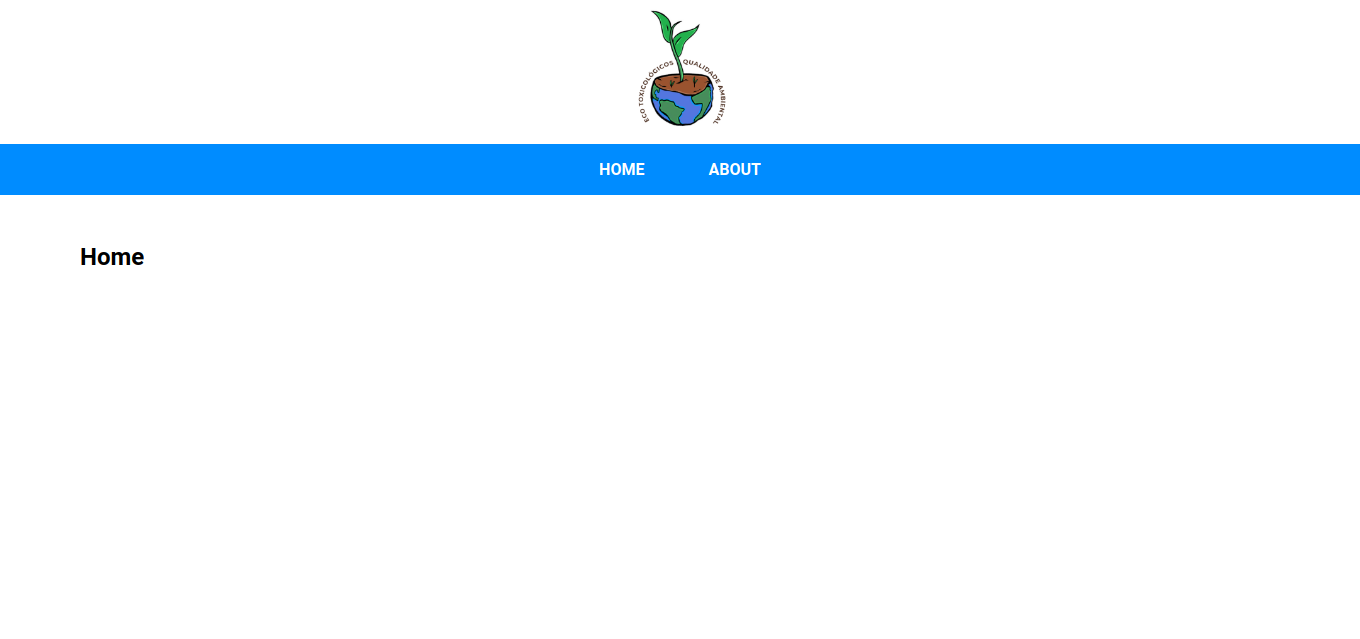
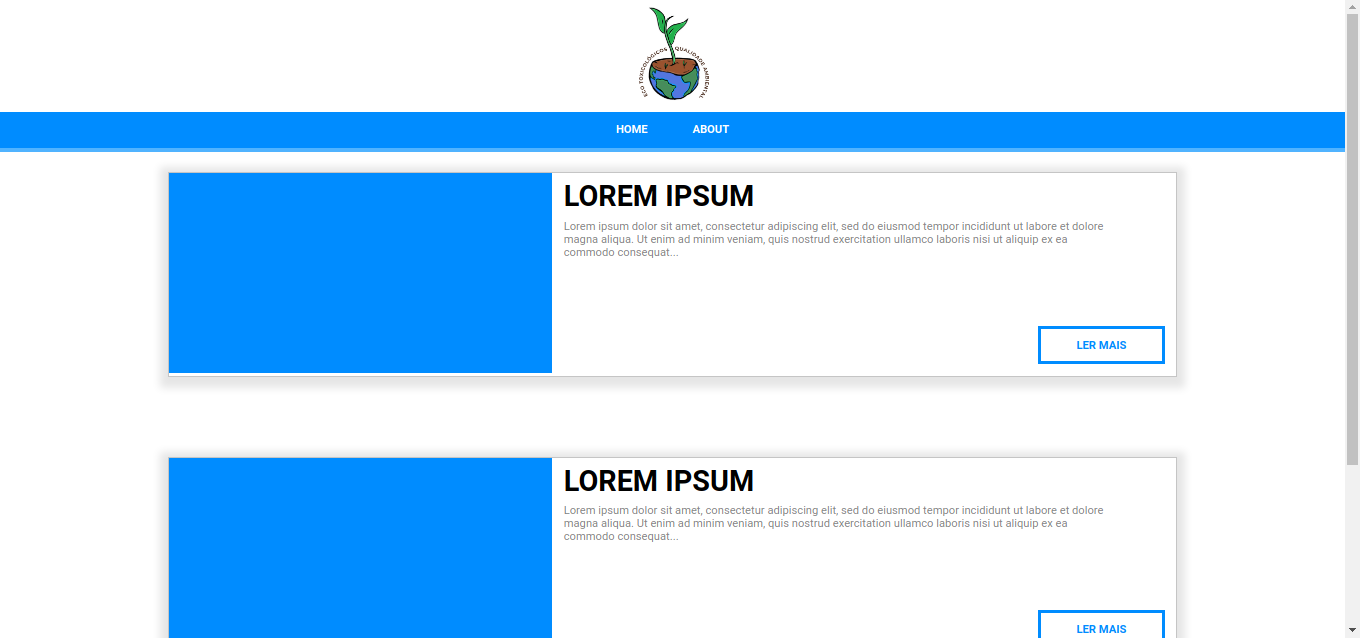
ContentCard Concluded

diff --git a/src/views/Home.vue b/src/views/Home.vue
@@ -1,20 +1,29 @@
 <template>
-  <section>
-   <h1>Home</h1>
-   <ContentCard
-    title="Materia"
-    text="Text Materia"
-    route="/materia"
-    link="/about"
-    image="../assets/Logo.png"
-  >
-  </ContentCard>
-  </section>
+  <main>
+    <ContentCard
+      title="Lorem ipsum"
+      text="Lorem ipsum dolor sit amet, consectetur adipiscing elit,
+      sed do eiusmod tempor incididunt ut labore et dolore magna aliqua.
+      Ut enim ad minim veniam, quis nostrud exercitation ullamco laboris
+      nisi ut aliquip ex ea commodo consequat..."
+      link="/about"
+      img="Rectangle.png"
+    />
+    <ContentCard
+      title="Lorem ipsum"
+      text="Lorem ipsum dolor sit amet, consectetur adipiscing elit,
+      sed do eiusmod tempor incididunt ut labore et dolore magna aliqua.
+      Ut enim ad minim veniam, quis nostrud exercitation ullamco laboris
+      nisi ut aliquip ex ea commodo consequat..."
+      link="/about"
+      img="Rectangle.png"
+    />
+  </main>
 </template>
 
 <script>
 // @ is an alias to /src
-import ContentCard from '@/components/ContentCard.vue';
+import ContentCard from '@/components/ContentCard/index.vue';
 
 export default {
   name: 'Home',
@@ -25,9 +34,12 @@ export default {
 </script>
 
 <style lang="scss" scoped>
-  section {
+  @import 'src/vars.scss';
+  main {
     display: flex;
     flex-direction: column;
-    margin: 3em 5em;
+    align-items: center;
+    gap: 10rem;
+    margin: 10em auto;
   }
 </style>

diff --git a/src/components/ContentCard/CardContent.vue b/src/components/ContentCard/CardContent.vue
@@ -1,0 +1,73 @@
+<template>
+  <div class="content">
+    <h2>{{ title }}</h2>
+    <p>{{ text }}</p>
+    <div class="link">
+      <router-link :to="link">Ler Mais</router-link>
+    </div>
+  </div>
+</template>
+
+<script>
+export default {
+  name: 'CardContent',
+  props: {
+    title: {
+      required: true,
+      type: String,
+    },
+    text: {
+      required: true,
+      type: String,
+    },
+    link: {
+      required: true,
+      type: String,
+    },
+  },
+};
+</script>
+
+<style lang="scss" scoped>
+  @import 'src/vars.scss';
+  .content {
+    display: flex;
+    flex-direction: column;
+    h2 {
+      text-transform: uppercase;
+      font-size: $h2;
+      margin-top: 0.8rem;
+      margin-bottom: 0.8rem;
+    }
+    p {
+      font-size: $p;
+      color: $gray;
+      width: 90%;
+    }
+    .link {
+      display: flex;
+      align-items: flex-end;
+      justify-content: flex-end;
+
+      a {
+        transition: .5s ease;
+        border: 0.4rem solid $blue;
+
+        margin: 6em 1em 1em 1em;
+        padding: 12px 44px;
+
+        text-decoration: none;
+        text-transform: uppercase;
+        color: $blue;
+        font-size: $p;
+        font-weight: bold;
+        text-align: center;
+
+        &:hover {
+          background-color: $blue;
+          color: white;
+        }
+      }
+    }
+  }
+</style>

diff --git a/src/components/ContentCard/index.vue b/src/components/ContentCard/index.vue
@@ -1,0 +1,58 @@
+<template>
+  <section class="contentCard">
+      <div class="image">
+        <img :src="require(`@/assets/${img}`)" :alt="title">
+      </div>
+      <CardContent class="content"
+        :title="title"
+        :text="text"
+        :link="link"
+      >
+      </CardContent>
+  </section>
+</template>
+
+<script>
+import CardContent from './CardContent.vue';
+
+export default {
+  name: 'ContentCard',
+  props: {
+    title: String,
+    text: String,
+    link: String,
+    img: String,
+  },
+  components: {
+    CardContent,
+  },
+};
+</script>
+
+<style lang="scss" scoped>
+  .contentCard {
+  width: 75%;
+  display: flex;
+  gap: 10em;
+
+  border: 1px solid rgba(159, 159, 159, 0.6);
+  box-shadow: 0px 4px 10px 10px rgba(0, 0, 0, 0.1);
+
+  .img {
+    max-width: 478px;
+  }
+
+  @media screen and (max-width: 1024px) {
+    flex-direction: column;
+
+    img {
+      max-width: 100%;
+      max-height: 250px;
+    }
+
+    .content {
+      margin-left: 10em;
+    }
+  }
+}
+</style>

diff --git a/src/components/Footer.vue b/src/components/Footer.vue
@@ -14,20 +14,23 @@ export default {
 </script>
 
 <style lang="scss" scoped>
-  /* TODO: Finalize Styles */
-  $dark-blue: #0068BE;
-  $blue: #008CFF;
-  $ligth-blue: #50B3FF;
+  @import 'src/vars.scss';
+
   section {
     display: flex;
     justify-content: center;
     align-items: center;
 
-    padding: 6em 0 2em 0;
-    margin-top: 3em;
-
-    border-top: 0.5em solid $ligth-blue;
+    border-top: 4em solid $ligth-blue;
     background-color: $blue;
-    color: white;
+
+    span {
+      margin: 10rem 2rem;
+      font-size: $p;
+      color: white;
+      strong {
+        font-size: $p;
+      }
+    }
   }
 </style>

diff --git a/src/components/NavBar.vue b/src/components/NavBar.vue
@@ -15,9 +15,7 @@ export default {
 </script>
 
 <style lang="scss" scoped>
-  $dark-blue: #0068BE;
-  $blue: #008CFF;
-  $ligth-blue: #50B3FF;
+  @import 'src/vars.scss';
   header {
     display: flex;
     flex-direction: column;
@@ -34,13 +32,14 @@ export default {
       width: 100%;
 
       background-color: $blue;
-      border-bottom: 0.5em solid $ligth-blue;
+      border-bottom: 4em solid $ligth-blue;
       a {
         transition: .5s ease;
 
         padding: 1em 2em;
 
         color: white;
+        font-size: $p;
         font-weight: bold;
         text-decoration: none;
 

diff --git a/src/App.vue b/src/App.vue
@@ -19,16 +19,23 @@ export default {
 
 <style lang="scss">
   @import url('https://fonts.googleapis.com/css2?family=Roboto:wght@400;700&display=swap');
+  @import 'src/vars.scss';
+
   * {
     margin: 0;
     padding: 0;
     box-sizing: border-box;
+    font-size: 62.5%;
   }
 
   body {
-    width: 100vw;
-    height: 100vh;
+    display: flex;
+    flex-direction: column;
+
+    width: 100%;
     overflow-x: hidden;
+
+    font-size: 62.5%;
   }
 
   #app {

diff --git a/src/vars.scss b/src/vars.scss
@@ -1,0 +1,8 @@
+$h1: 6.4rem;
+$h2: 3.6rem;
+$h3: 2.4rem;
+$p: 1.4rem;
+$dark-blue: #0068BE;
+$blue: #008CFF;
+$ligth-blue: #50B3FF;
+$gray: rgba(0, 0, 0, 0.5);
